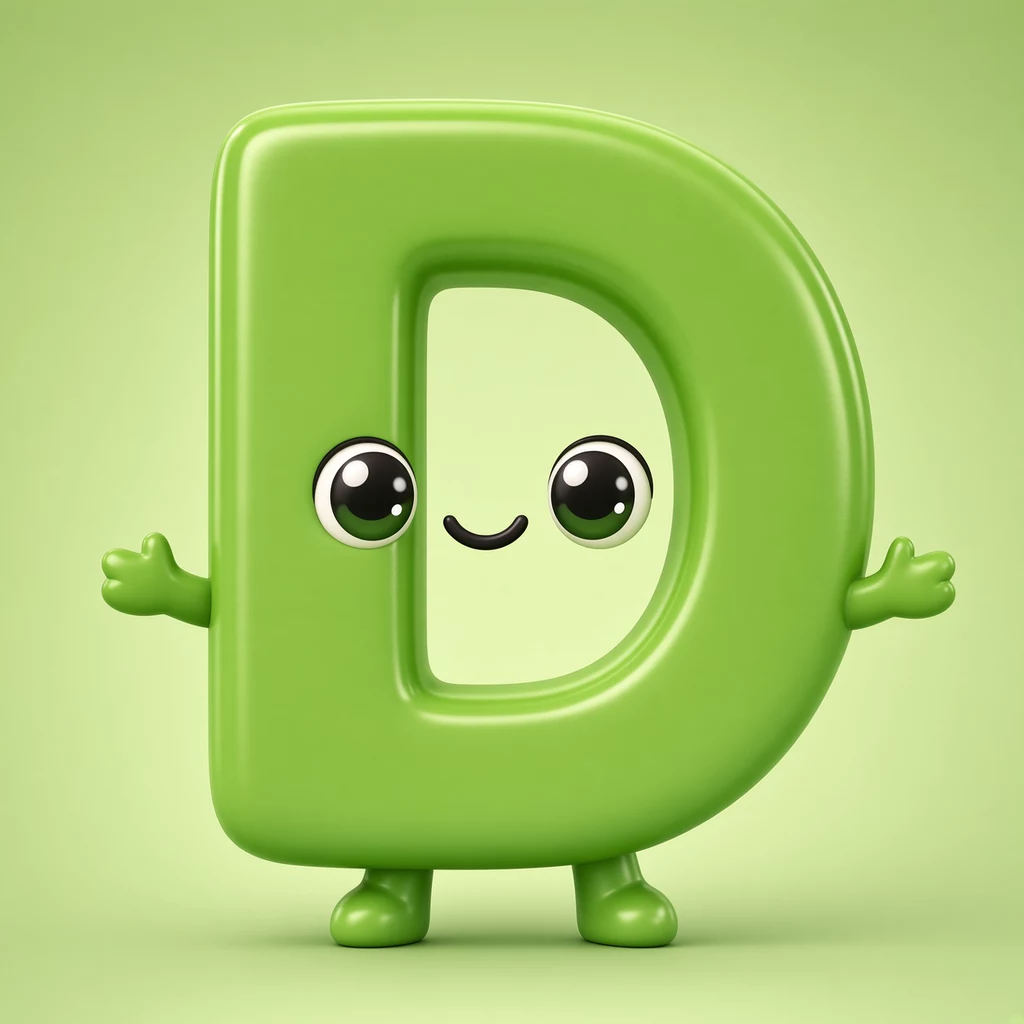
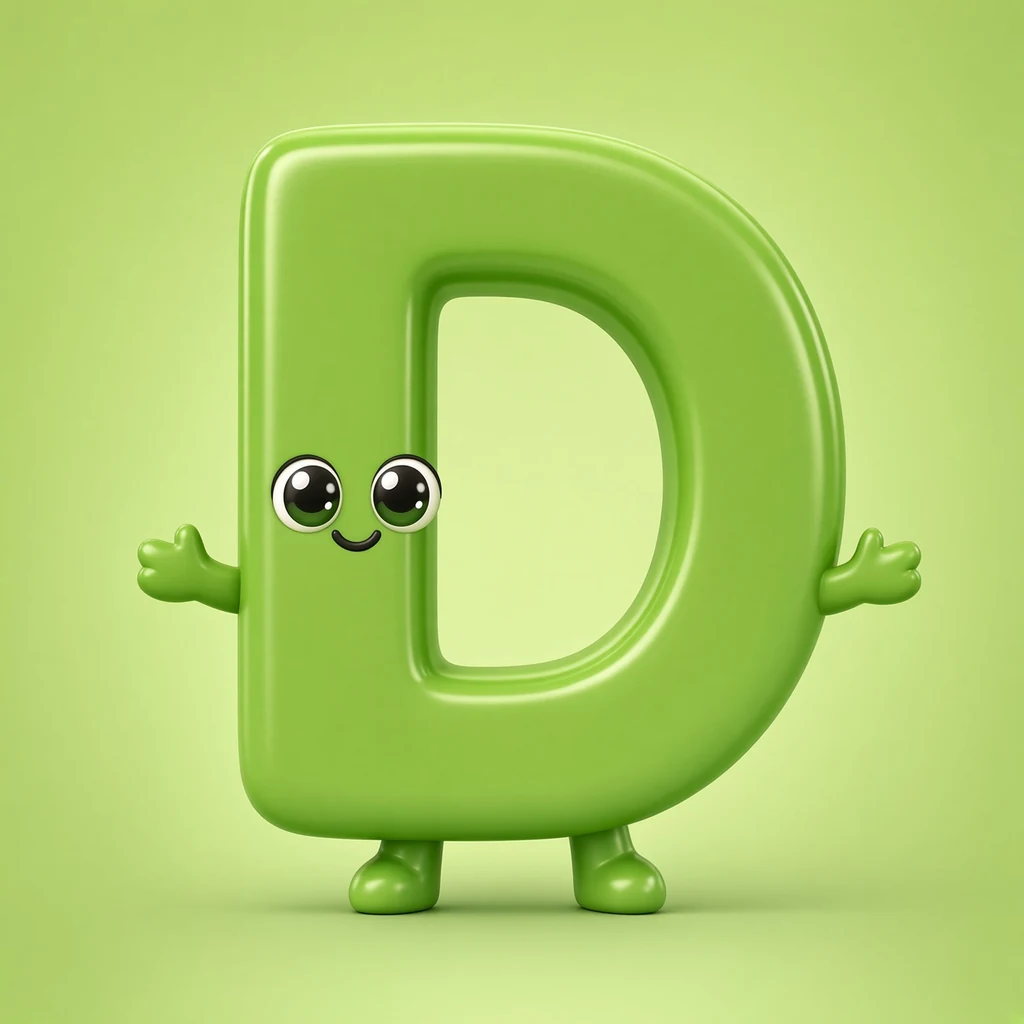
v0.116: remake Meet D still and clip — face on the spine.
Hole stays empty: no eyes or mouth in the D cutout.

diff --git a/src/lib/version.ts b/src/lib/version.ts
@@ -12,7 +12,7 @@
  * Grok Publish: still remind at v0.070, v0.080… so the public link can match.
  */
 
-export const APP_VERSION = "0.115";
+export const APP_VERSION = "0.116";
 export const APP_VERSION_LABEL = `v${APP_VERSION}`;
 export const APP_SLUG = "abc-adventure";
 export const APP_DISPLAY_NAME = "ABC Adventure";

diff --git a/SESSION.md b/SESSION.md
@@ -1,6 +1,6 @@
 # Session compact — ABC Adventure
 
-**Version:** v0.115  
+**Version:** v0.116  
 **GitHub:** sh4gu4dummy-arch/abc-adventure `main`  
 **User tests in Grok live preview**, not APK, unless they ask.
 
@@ -30,6 +30,9 @@ Color-in the letter, not a handwriting test. Crayon clips to the glyph. ~26% of 
 | H heart | Crayon with two points | One-tip crayon; look-at-the-clip QA (not a tip-count law) |
 
 A–Z word videos exist. J–Z remade to locked sentences; A–I older unless later patched (G, H, fish, frog, etc.).
+
+## Meet D remake (v0.116)
+Thumbnail + clip: face on the D spine, hole empty (no eyes/mouth in the hole). Green.
 
 ## Meet D / E (v0.115)
 Same as A–C: 6s, match home color (D green, E purple), two eyes, empty holes/gaps, one cartoon voice in the clip. F–Z still bounce puppets.

diff --git a/PROJECT.md b/PROJECT.md
@@ -113,7 +113,7 @@ npm run build:apk      # only when asked
 
 ## Versioning & downloads
 
-- **Current version:** `0.115` (`v0.115`) — stored in `VERSION` and `src/lib/version.ts` (keep in sync).
+- **Current version:** `0.116` (`v0.116`) — stored in `VERSION` and `src/lib/version.ts` (keep in sync).
 
 ## GitHub + Grok Publish cadence
 
